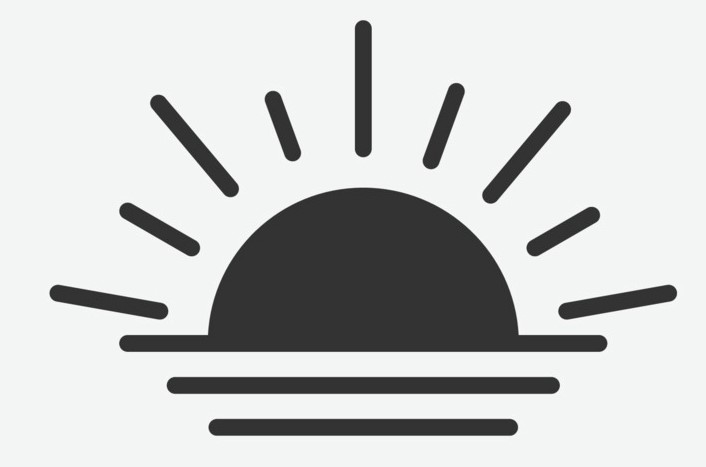
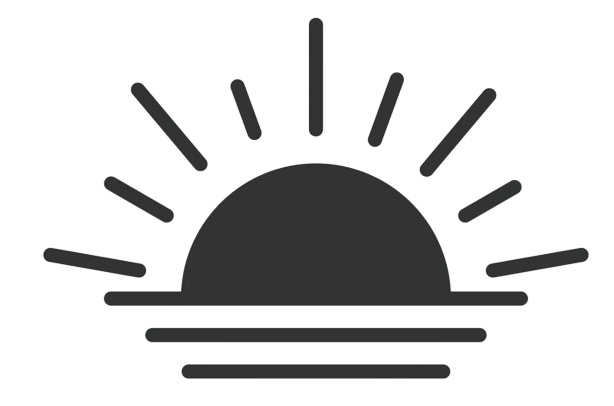
remove background of img

diff --git a/index.html b/index.html
@@ -18,6 +18,11 @@
             <button id="getLocationButton">&#127758;</button>
         </div>
         <div id="locationResult" class="locationResult"></div>
+        <img src="resources/sunrise-01_generated.jpg" alt="sunrise">
+        <img src="resources/sunset.jpg" alt="sunset">
+        <img src="resources/solar_noon.jpg" alt="solar_noon">
+        <img src="resources/clock.jpg" alt="clock">
+        <img src="resources/timezone.png" alt="timezone">
     </div>
 </body>
 </html>
